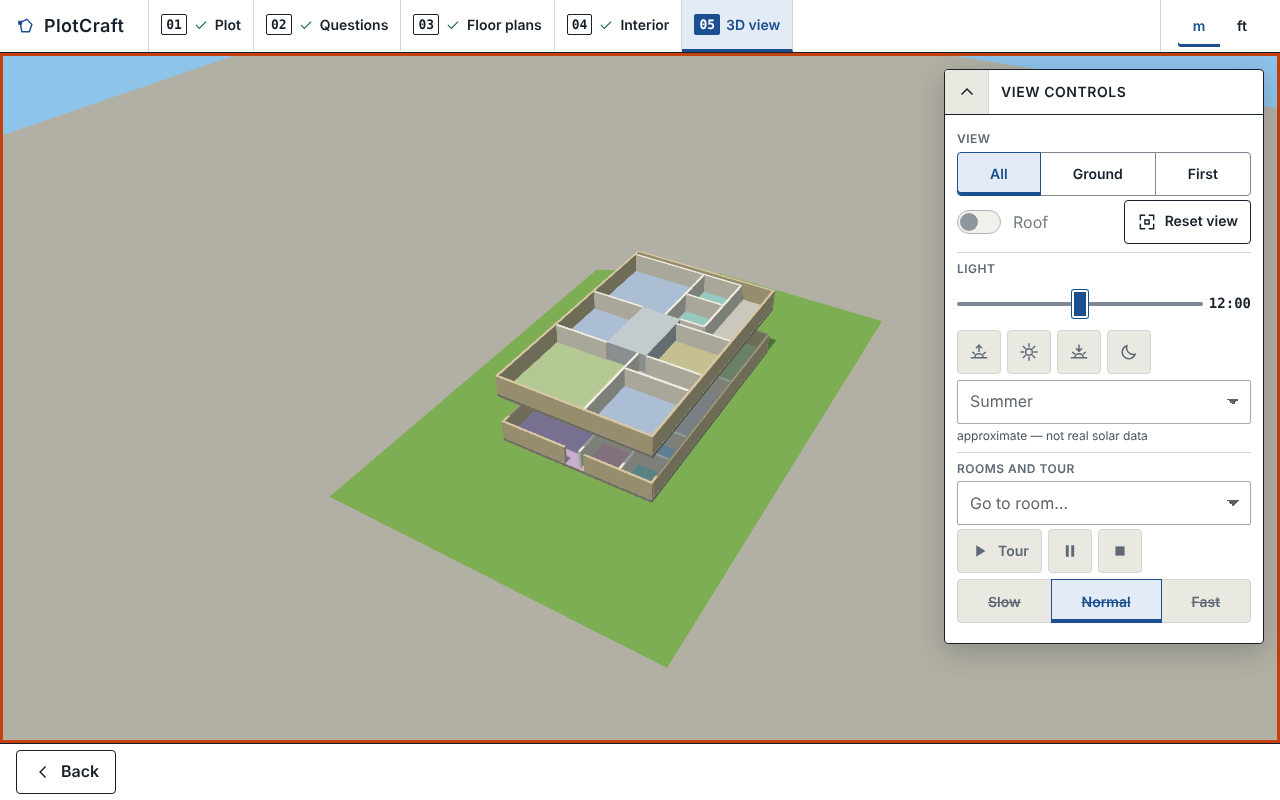
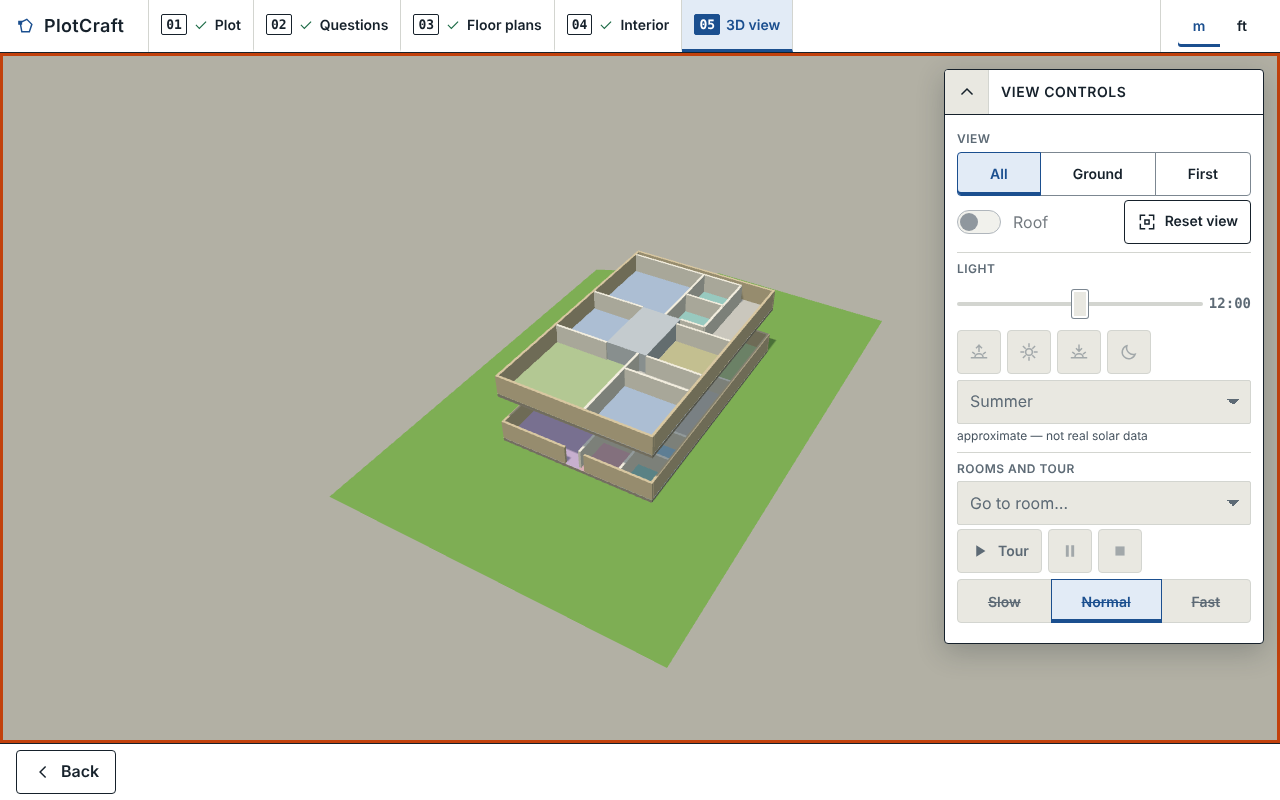
F4-T1: Designer disabled-control styles, FS outerK 36 + double-build test
Claude-Session: https://claude.ai/code/session_017ZcMKKgv34Lw2HAz4HtEhQ

diff --git a/dist/index.html b/dist/index.html
@@ -357,6 +357,19 @@ canvas { display: block; }
   width: 14px; height: 26px; background: var(--accent); border: 2px solid var(--surface);
   border-radius: var(--r1); box-shadow: 0 0 0 1px var(--accent);
 }
+/* Disabled slider / select / icon button (F4-T1 TL condition 1): same muted set as .pc-btn:disabled (sunk, rule, ink-3),
+   so a control that is not available yet never looks live. */
+.pc-range:disabled { cursor: not-allowed; }
+.pc-range:disabled::-webkit-slider-runnable-track { background: var(--rule); }
+.pc-range:disabled::-moz-range-track { background: var(--rule); }
+.pc-range:disabled::-webkit-slider-thumb { background: var(--sunk); box-shadow: 0 0 0 1px var(--border); }
+.pc-range:disabled::-moz-range-thumb { background: var(--sunk); box-shadow: 0 0 0 1px var(--border); }
+.pc-range:disabled + output { color: var(--ink-3); }
+.pc-select:disabled {
+  background-color: var(--sunk); border-color: var(--rule); color: var(--ink-3); cursor: not-allowed; opacity: 1;
+  background-image: linear-gradient(45deg, transparent 50%, var(--ink-3) 50%), linear-gradient(135deg, var(--ink-3) 50%, transparent 50%);
+}
+.pc-btn--icon:disabled > .pc-i, .pc-btn--icon[aria-disabled="true"] > .pc-i { opacity: 0.5; }
 
 /* Switch */
 .pc-switch {
@@ -1764,7 +1777,7 @@ button.pc-chip { min-height: var(--tap); min-width: var(--tap); padding: 0 var(-
       retry: { fMin: 0.75, fMax: 1.25 } },          // 4.4: retry only when the first pass finds no layout (F3-T2)
     // 3D (F4-T1; A-9, A-10, A-12). HOUSE: slab 0.2 m (pitch = Q8 + slab; floor at baseY + slab), dollhouse walls
     // 1.2 m x 0.15 m, entrance door 1.2 m wide, z-offsets of A-10. CAM: angles in degrees, see A-12.
-    HOUSE: { slab: 0.2, wallH: 1.2, wallT: 0.15, door: 1.2, tintLift: 0.015, capLift: 0.01, outerDrop: 0.05, outerK: 8 },
+    HOUSE: { slab: 0.2, wallH: 1.2, wallT: 0.15, door: 1.2, tintLift: 0.015, capLift: 0.01, outerDrop: 0.05, outerK: 36 },
     CAM: { fov: 45, nearMin: 0.5, nearK: 0.02, farK: 20, phiMin: 5, phiMax: 85, rMin: 4, rMaxK: 3, rMaxReset: 1.2,
       eyeMin: 1, resetK: 2.2, resetFit: 1.05, resetTheta: 30, resetPhi: 50, keyDeg: 5, keyZoom: 1.1, wheelK: 0.0015 },
     VIEW3D: { maxDpr: 2, shadowMap: 1024, shadowBias: -0.0005, shadowNormalBias: 0.02, sunDist: 2.5, shadowK: 2.5, shadowR: 1.2 },

diff --git a/src/css/30-components.css b/src/css/30-components.css
@@ -102,6 +102,19 @@
   width: 14px; height: 26px; background: var(--accent); border: 2px solid var(--surface);
   border-radius: var(--r1); box-shadow: 0 0 0 1px var(--accent);
 }
+/* Disabled slider / select / icon button (F4-T1 TL condition 1): same muted set as .pc-btn:disabled (sunk, rule, ink-3),
+   so a control that is not available yet never looks live. */
+.pc-range:disabled { cursor: not-allowed; }
+.pc-range:disabled::-webkit-slider-runnable-track { background: var(--rule); }
+.pc-range:disabled::-moz-range-track { background: var(--rule); }
+.pc-range:disabled::-webkit-slider-thumb { background: var(--sunk); box-shadow: 0 0 0 1px var(--border); }
+.pc-range:disabled::-moz-range-thumb { background: var(--sunk); box-shadow: 0 0 0 1px var(--border); }
+.pc-range:disabled + output { color: var(--ink-3); }
+.pc-select:disabled {
+  background-color: var(--sunk); border-color: var(--rule); color: var(--ink-3); cursor: not-allowed; opacity: 1;
+  background-image: linear-gradient(45deg, transparent 50%, var(--ink-3) 50%), linear-gradient(135deg, var(--ink-3) 50%, transparent 50%);
+}
+.pc-btn--icon:disabled > .pc-i, .pc-btn--icon[aria-disabled="true"] > .pc-i { opacity: 0.5; }
 
 /* Switch */
 .pc-switch {

diff --git a/src/js/core/const.js b/src/js/core/const.js
@@ -42,7 +42,7 @@
       retry: { fMin: 0.75, fMax: 1.25 } },          // 4.4: retry only when the first pass finds no layout (F3-T2)
     // 3D (F4-T1; A-9, A-10, A-12). HOUSE: slab 0.2 m (pitch = Q8 + slab; floor at baseY + slab), dollhouse walls
     // 1.2 m x 0.15 m, entrance door 1.2 m wide, z-offsets of A-10. CAM: angles in degrees, see A-12.
-    HOUSE: { slab: 0.2, wallH: 1.2, wallT: 0.15, door: 1.2, tintLift: 0.015, capLift: 0.01, outerDrop: 0.05, outerK: 8 },
+    HOUSE: { slab: 0.2, wallH: 1.2, wallT: 0.15, door: 1.2, tintLift: 0.015, capLift: 0.01, outerDrop: 0.05, outerK: 36 },
     CAM: { fov: 45, nearMin: 0.5, nearK: 0.02, farK: 20, phiMin: 5, phiMax: 85, rMin: 4, rMaxK: 3, rMaxReset: 1.2,
       eyeMin: 1, resetK: 2.2, resetFit: 1.05, resetTheta: 30, resetPhi: 50, keyDeg: 5, keyZoom: 1.1, wheelK: 0.0015 },
     VIEW3D: { maxDpr: 2, shadowMap: 1024, shadowBias: -0.0005, shadowNormalBias: 0.02, sunDist: 2.5, shadowK: 2.5, shadowR: 1.2 },

diff --git a/docs/03-tasks/F4-T1/designer-fix.md b/docs/03-tasks/F4-T1/designer-fix.md
@@ -1,0 +1,42 @@
+# F4-T1: Designer fix for TL impl-review condition 1 (disabled Light controls), and FS item 3
+
+Owner: Designer, 2026-11-21. Source: `impl-review.md` condition 1 and item 3.
+
+## Condition 1: the disabled controls now look disabled
+**The problem.** On stage 5, the disabled time slider (blue thumb), the Season and "Go to room" selects, and, faintly, the icon preset buttons still looked live. Only `.pc-btn`, `.pc-opt` and `.pc-switch` had disabled styles.
+
+**The change.** `src/css/30-components.css`, 13 lines, placed after the `.pc-range` rules. Every disabled control now uses the same muted set as `.pc-btn:disabled` (`--sunk` background, `--rule` / `--border` lines, `--ink-3` text, `cursor: not-allowed`):
+- **`.pc-range:disabled`:**
+  - the track becomes `--rule`;
+  - the thumb becomes `--sunk` with a 1 px `--border` ring (was an `--accent` fill and ring);
+  - `cursor: not-allowed`;
+  - the `output` right after the slider turns `--ink-3`.
+- **`.pc-select:disabled`:**
+  - `--sunk` background, `--rule` border, `--ink-3` text, `cursor: not-allowed`;
+  - the drawn arrow becomes `--ink-3`;
+  - `opacity: 1`, so the browser does not fade it a second time.
+- **`.pc-btn--icon:disabled`** (and `[aria-disabled="true"]`): the icon is at 0.5 opacity. The button already had the `.pc-btn:disabled` box. Its thin line icons stayed nearly as dark as live ones; they now read as muted as the Tour button. The tour Pause and Stop buttons pick this up too.
+
+**Where it applies.** These are generic component rules; no other stage disables a slider, select or icon button today.
+
+**Tour-speed radios (TL optional point): left as they are.**
+- The disabled "Normal" shows struck through on the selected tint. That is the existing `.pc-opt` disabled style, also used on stage 2 (e.g. Pitched when it is unavailable).
+- It reads as "this is the setting, not available yet". Changing it here would change stage 2 too.
+
+**Check.** `tests/e2e/view3d.spec.mjs` `phone()` at 360x640 has one added check. Computed styles show:
+- slider `cursor: not-allowed`;
+- `v3-time-out` colour = `--ink-3`;
+- both selects: background = `--sunk` and colour = `--ink-3`;
+- preset icon opacity 0.5.
+
+The thumb and track are pseudo-elements: Chrome returns no computed style for `::-webkit-slider-thumb`. They are verified by the screenshots in `designer-shots/` (360x640 Light and Tour tabs, 1280x800 panel).
+
+**Mutations.** Removing the select rule fails the check (2 values), and removing the icon rule fails it (opacity 1).
+
+**Runs.** `--e2e --only view3d,questions,rooms,contract`: all passed, view3d 46/0 and view3d-real 38/0. No full run (QA is testing in parallel).
+
+## TL item 3 (`HOUSE.outerK` 8 → about 36): yes, now (FS)
+- In every `shots/` image (360x640 sand, and 1280x800 in all four exteriors), the `groundOuter` edge cuts a sky-blue wedge into the top corners.
+- It reads as a table edge, competes with the model and looks like a rendering error on a phone.
+- With the ground reaching the far plane, the neutral `groundOuter` (#B3B0A6) fills the view, as A-10 / my F3-T3 art-direction note intend ("groundOuter stays neutral so the plot edge reads").
+- The look is unchanged otherwise. It is a one-constant FS change; please include it before the publish.

diff --git a/docs/03-tasks/F4-T1/fs-outerk.md b/docs/03-tasks/F4-T1/fs-outerk.md
@@ -1,0 +1,30 @@
+# F4-T1 — FS: outer ground size (TL impl review, FS item 3)
+
+Status: done before the publish. The Designer judges the look from the shots.
+
+## Change
+`src/js/core/const.js`: `HOUSE.outerK` goes from 8 to **36**. `groundOuter` is now a 36 R square (half side 18 R) around the plot centre, at Y −0.05.
+No other code changed: `build-shell.js` already sizes the plane as `outerK × R`.
+
+## Fit checks
+- **Camera far plane** (`far = CAM.farK × R = 20 R`). The plane's edge at 18 R lies just inside the far plane.
+  - At the reset pose the top ray of the view meets the ground well inside the plane on both viewports, so the ground fills the view to the top corners.
+  - On the phone (360x640, where the reset radius is about 4.6 R), that ray is about 10 R long.
+  - The rays that reach the far plane are the ones near the horizon, so the background shows only above the horizon.
+  - Worst pose: fully zoomed out at the lowest angle (φ 85°, r ≈ 3.3 R, sample R = 18 m, far 361 m). The 1280x800 probe shows a clean horizon, with sky above and neutral ground below. The plane's far corner just touches the horizon on the left, and no wedge appears.
+- **Fog:** there is none in F4-T1, so nothing to check.
+- **Shadow camera:** sized from the footprint, `min(2.5 × footprint diagonal / 2, 1.2 R)`, so the ground size does not change it. The outer ground receives shadow only within that box, as before.
+- **Depth:** near and far are unchanged (`near = max(0.5, 0.02 R)`). Ground layers are 0.05 m and 0.01 m apart close to the house, and no z-fighting is visible in the shots.
+- **G6 budgets:** still one mesh and one draw call. view3d-real is 38/0 in about 3.5 s (draw calls ≤ 80, meshes ≤ 40, pixel ratio ≤ 2, not blank, colour pipeline, sky = raw background, context loss and restore, hidden).
+
+## Shots (re-shot: `node tests/e2e/view3d-real.spec.mjs --shots`)
+`shots/1280x800-{sand,white,terracotta,grey}-noon.png` and `shots/360x640-sand-noon.png`.
+- I checked by eye and by pixel. The top corners of the canvas are now the lit neutral ground (178,176,164 on both viewports) instead of the noon sky `#8EC3EA`. There is no table edge, and the house and plot read as before.
+
+## Also (TL impl review, FS item 1: trivial, done)
+- New test in `tests/three/scene.test.mjs`: close() then open() with the same house inside the Building… yield gives exactly one build and one render.
+- Removing the token check (`S.building !== token`) now fails it. I checked this with a temporary edit and reverted it.
+- Item 2 (pinning the `reachable` half of the refusal) stays for F4-T2.
+
+## Runs (focused only; QA is testing in parallel)
+`node tests/run-all.mjs --unit --three --e2e --only view3d,contract`: all green in 20.4 s. view3d-real (with `--shots`) 38/0, and scene.test 15/0.

diff --git a/docs/status.md b/docs/status.md
@@ -185,3 +185,5 @@
 - [orchestrator] 18:06 UTC — client decision CD-4: raise rooms per floor 8 -> 10 (lands in the F4-T2 F3 follow-up bundle; TL to re-prove generator at 10)
 - [orchestrator] 18:06 UTC — client decision CD-5: non-blocking 'no hall access' warning (F4-T2 bundle)
 - [TL] F4-T1 step 3d: implementation review round 1 — APPROVED (docs/03-tasks/F4-T1/impl-review.md). Every plan-review ruling (Q1–Q11) and required item 1–9 met; CTO H1–H5 met (vendor sha512 checked). Own probes: unit+three 39/0, e2e view3d 45 / view3d-real 38 / shell 596 / plans-edit green; real-r128 shots read (sample framed at 360 and 1280, tints, hall top face, entrance gap, stair block, 4 exteriors, no z-fighting, Ground-only view, basement+lift labels fit); 6 own mutations: 4 caught, 2 survived (yield token on close+reopen; refusal 'reachable' half) -> non-blocking test gaps for FS. Full run exit 0 in 482.3 s. Condition before publish: Designer disabled styles for .pc-range / .pc-select / icon presets (slider and selects still look live). Notes: groundOuter outerK 8 -> ~36 (sky wedge at reset), faint noon shadows judged by eye. QA focus list (8 items) incl. f2-t2/f2-t3 trim to <= 450 s
+- [Designer] F4-T1 TL condition 1: disabled .pc-range (rule track, sunk thumb, ink-3 output, not-allowed), .pc-select (sunk / rule / ink-3, ink-3 arrow) and icon buttons (icon 0.5) styled in 30-components.css; one computed-style check in view3d.spec phone() at 360x640 (2 mutations caught); focused e2e view3d 46, view3d-real 38, questions 432, rooms 234, rooms-fit 490, contract 4 green; tour-speed radios left as existing .pc-opt style. TL item 3: yes, want HOUSE.outerK ~36 now (sky wedge in every shot) -> FS. docs/03-tasks/F4-T1/designer-fix.md
+- [FS] F4-T1 TL impl review FS item 3: HOUSE.outerK 8 -> 36 (groundOuter edge 18 R, inside far = 20 R); reset view now ground to the top corners (no sky wedge) at 360x640 and 1280x800, clean horizon at the widest/lowest pose; fog none, shadow camera footprint-based (unchanged), budgets unchanged (view3d-real 38/0, 3.5 s); shots re-taken. FS item 1 done too (scene.test close+reopen in the yield = 1 build, 1 render; token removal now fails it); item 2 stays F4-T2. Focused runs green (20.4 s). Record: docs/03-tasks/F4-T1/fs-outerk.md
